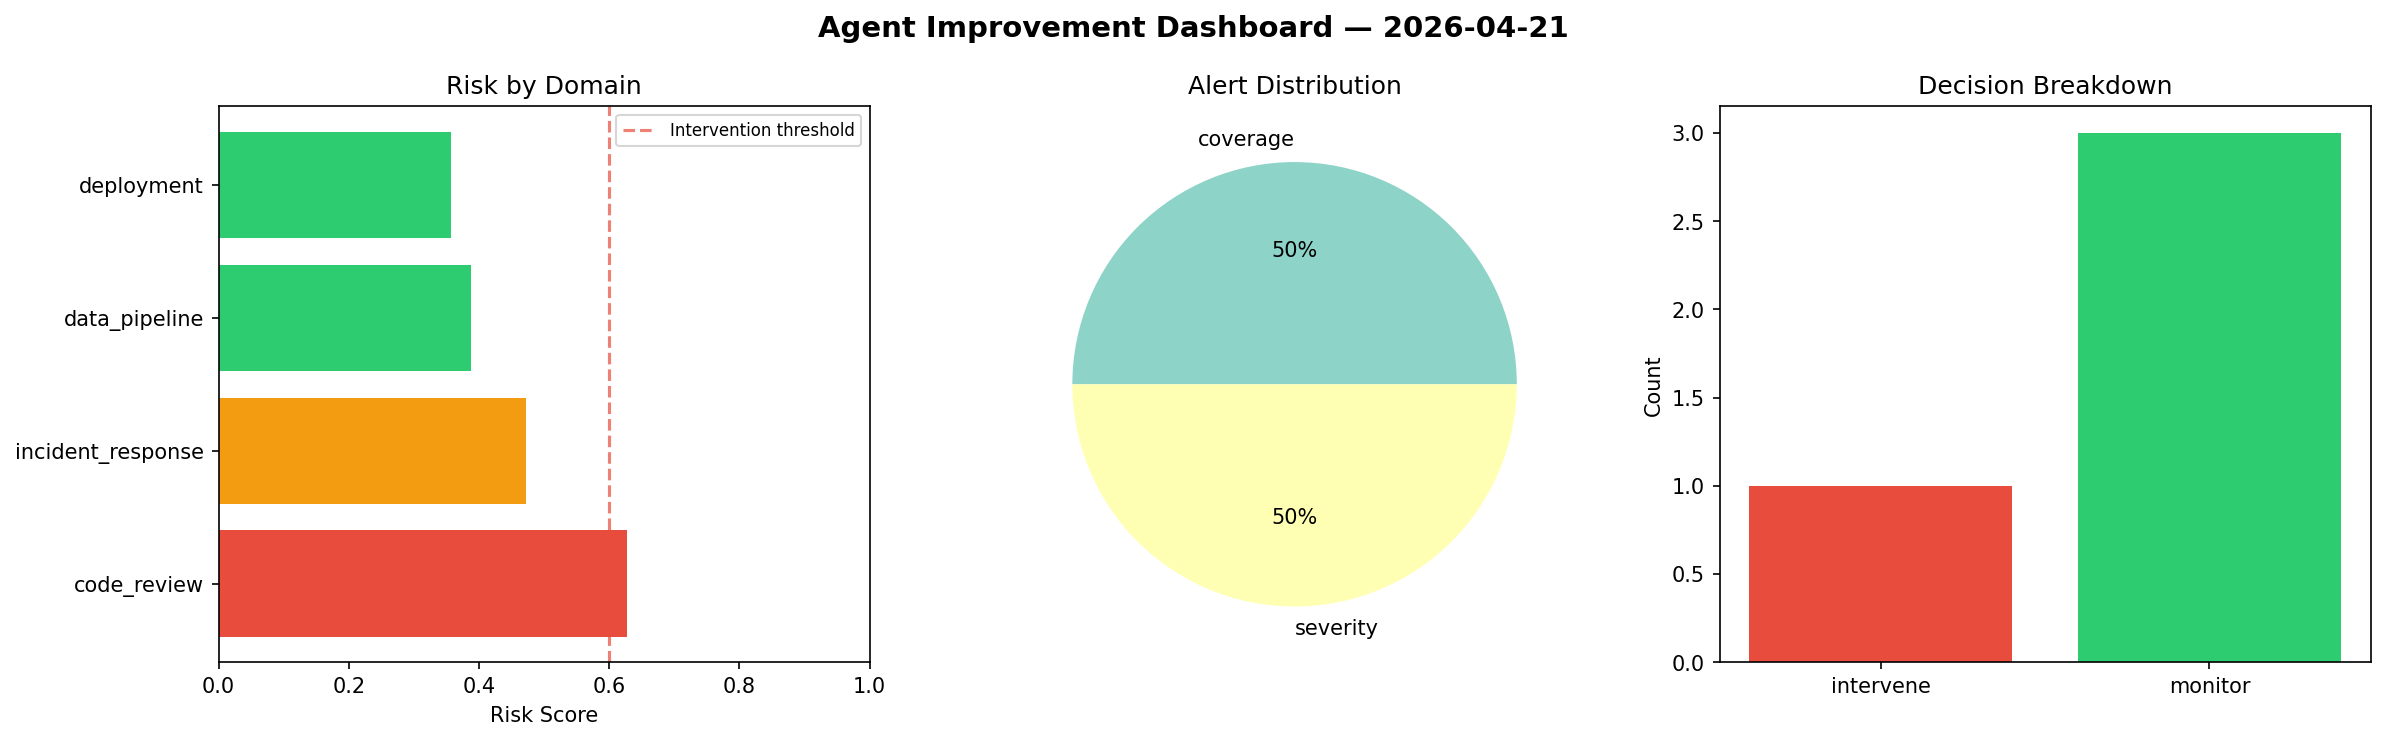
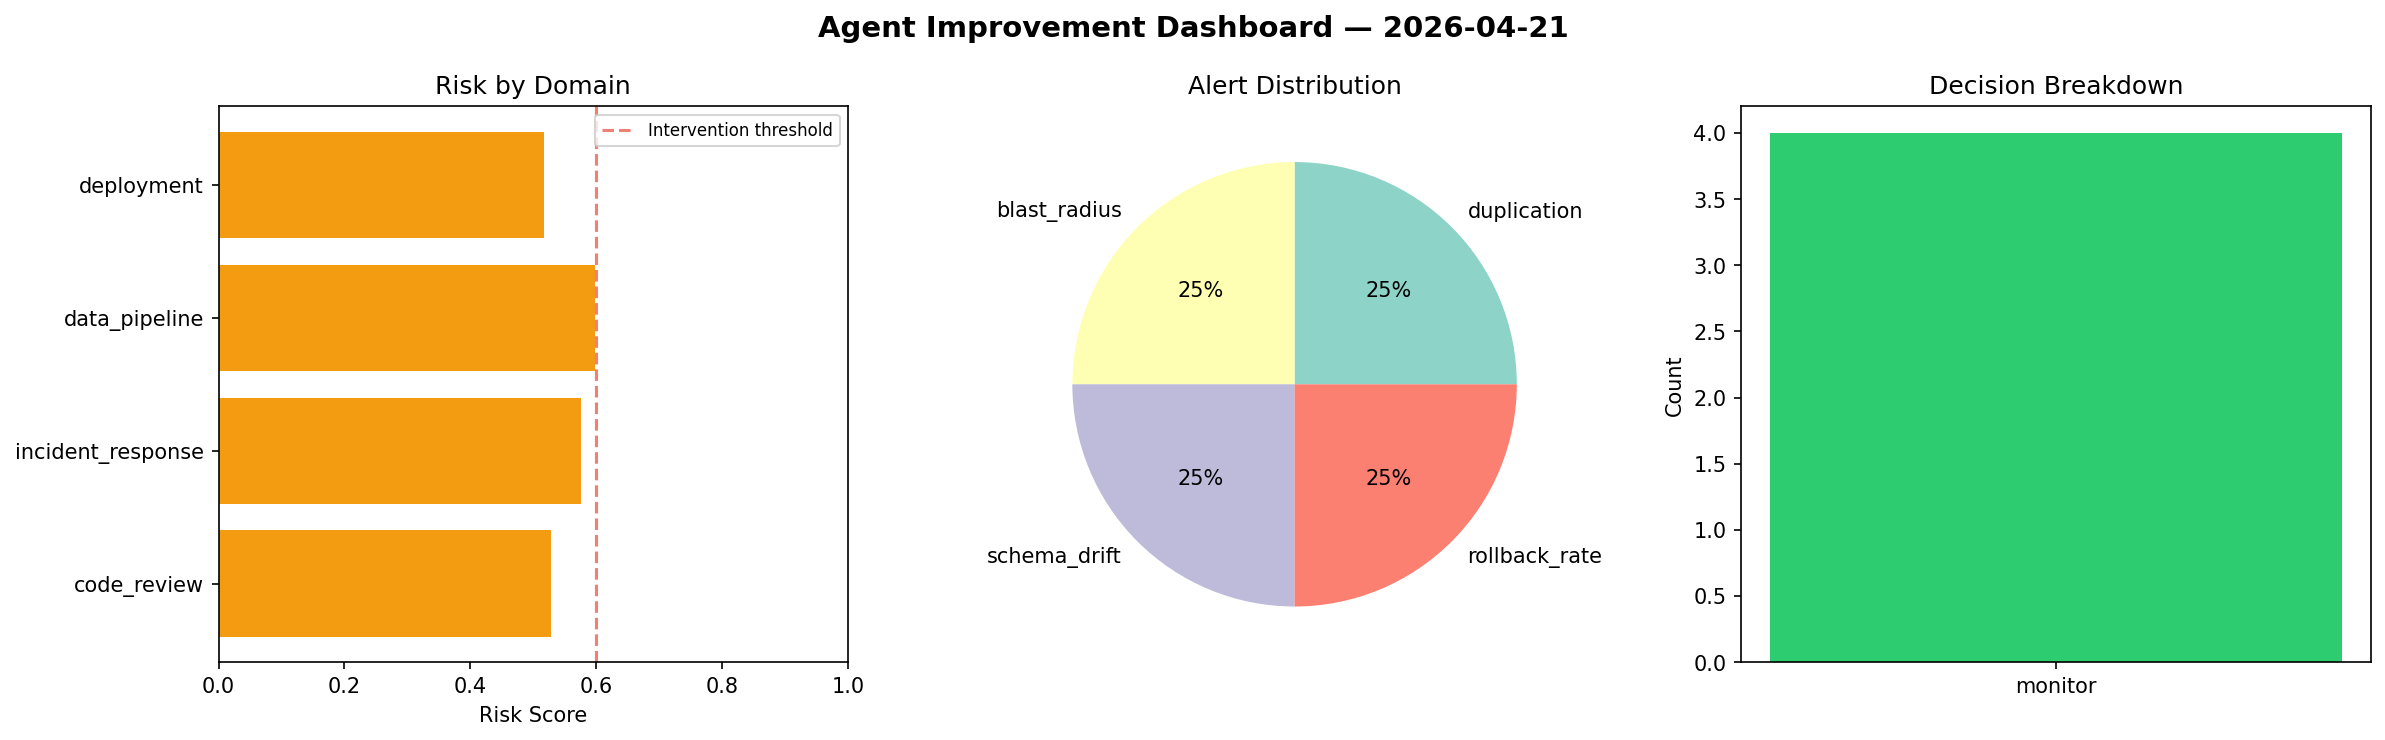
agent-improvement: daily cycle 2026-04-21T09:52

diff --git a/logs/2026-04-21.md b/logs/2026-04-21.md
@@ -1,6 +1,6 @@
 # Agent Improvement Report — 2026-04-21
 
-**Cycle ID:** `d424dcfb` | **Avg Risk:** 0.4614 | **Interventions:** 1/4
+**Cycle ID:** `b888aaca` | **Avg Risk:** 0.5546 | **Interventions:** 0/4
 
 ![Dashboard](2026-04-21_dashboard.png)
 
@@ -10,18 +10,18 @@
 
 | Domain | Risk Score | Decision | Alerts |
 |--------|-----------|----------|--------|
-| code_review | 0.6267 | intervene | coverage |
-| incident_response | 0.4729 | monitor | severity |
-| data_pipeline | 0.3883 | monitor | none |
-| deployment | 0.3576 | monitor | none |
+| code_review | 0.5274 | monitor | duplication |
+| incident_response | 0.5753 | monitor | blast_radius |
+| data_pipeline | 0.5987 | monitor | schema_drift |
+| deployment | 0.5169 | monitor | rollback_rate |
 
 ## Delta vs Yesterday
 
 | Domain | Today | Yesterday | Change |
 |--------|-------|-----------|--------|
-| code_review | 0.6267 | 0.6017 | 📈 4.2% |
-| incident_response | 0.4729 | 0.4793 | 📉 -1.3% |
-| data_pipeline | 0.3883 | 0.3303 | 📈 17.6% |
-| deployment | 0.3576 | 0.2965 | 📈 20.6% |
+| code_review | 0.5274 | 0.6017 | 📉 -12.3% |
+| incident_response | 0.5753 | 0.4793 | 📈 20.0% |
+| data_pipeline | 0.5987 | 0.3303 | 📈 81.3% |
+| deployment | 0.5169 | 0.2965 | 📈 74.3% |
 
 **Refinement:** `{'adjustment': 'maintain', 'trend': 'improving', 'window': 4}`
